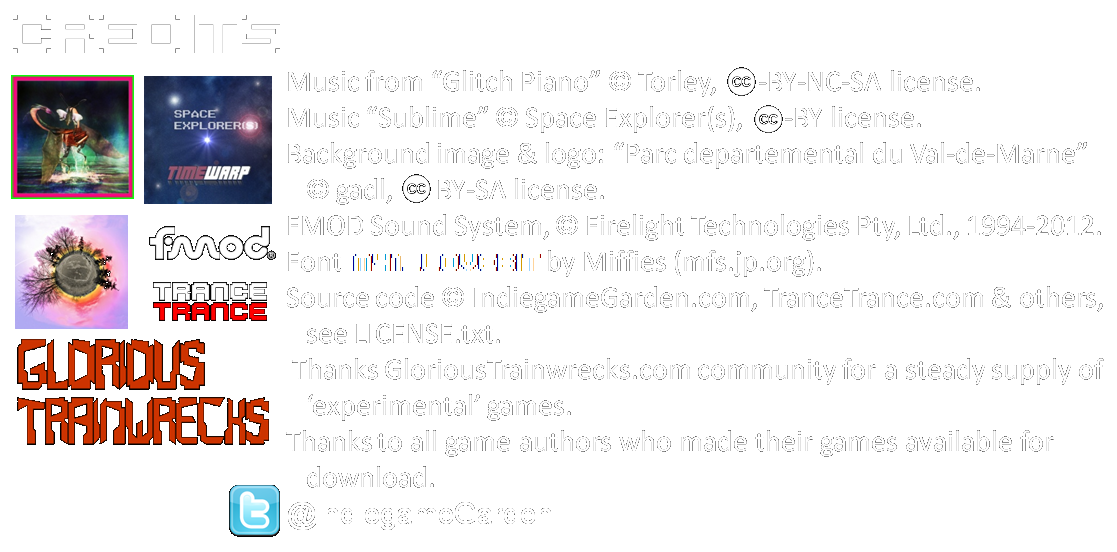
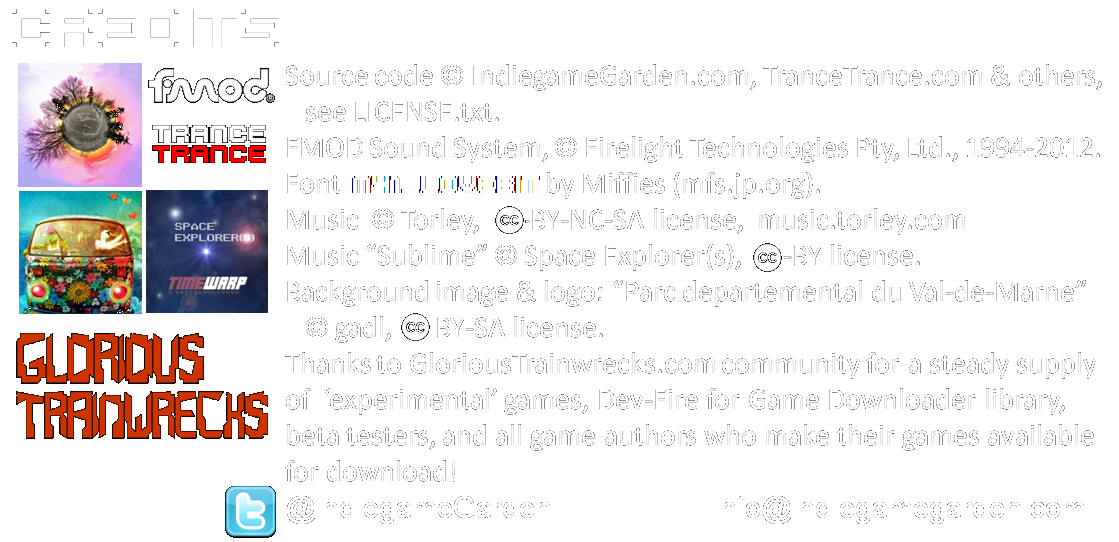
upd version numbers to ClientVer=5, GameLibVer=2; upd tasks; remove failing ftp from make-release script; updated credits img

diff --git a/IndiegameGarden/IndiegameGarden/Download/ConfigDownloader.cs b/IndiegameGarden/IndiegameGarden/Download/ConfigDownloader.cs
@@ -46,9 +46,13 @@ namespace IndiegameGarden.Download
         {
             string filenameOnServer = config.ConfigFilename;
             string filenameLocalSave = "new_" + filenameOnServer;
-            string url = config.ConfigFilesServerURL + filenameOnServer + 
-                    "?auth=" + GardenConfig.IGG_CLIENT_AUTH_KEY + "&clid="+config.GardenID +
-                    "&clver=" + config.ClientVersion ;
+            string url = config.ConfigFilesServerURL + filenameOnServer;
+            if (!url.Contains("github.com"))
+            {
+                // add client's login for the server, but not in case of github
+                url += "?auth=" + GardenConfig.IGG_CLIENT_AUTH_KEY + "&clid=" + config.GardenID +
+                        "&clver=" + config.ClientVersion;
+            }
             string downloadedConfigPath = config.ConfigFilesFolder + "\\" + filenameLocalSave;
             
             // delete any leftover local file

diff --git a/IndiegameGarden/IndiegameGarden/Base/GardenConfig.cs b/IndiegameGarden/IndiegameGarden/Base/GardenConfig.cs
@@ -31,13 +31,13 @@ namespace IndiegameGarden.Base
         /// 2 = ALPHA-2
         /// 3 = ALPHA-3
         /// </summary>
-        public const int    IGG_CLIENT_VERSION = 3;
+        public const int    IGG_CLIENT_VERSION = 5;
         /// <summary>
         /// update for a new build -> quick bootstrap to load a known version of gamelib. This version number
         /// starts again at 1 each time a new gamelib format ("fmt") version is released.
         /// For example "fmt3" in the source refers to gamelib format version 3.
         /// </summary>
-        public const int    KNOWN_GAMELIB_VERSION = 1;
+        public const int    KNOWN_GAMELIB_VERSION = 2;
 
         public const string DATA_PATH_DEBUG = "..\\..\\..\\..\\.."; // for testing in Visual Studio
         public const string DATA_PATH = "..\\.."; // for deployment version when embedded in games folder
